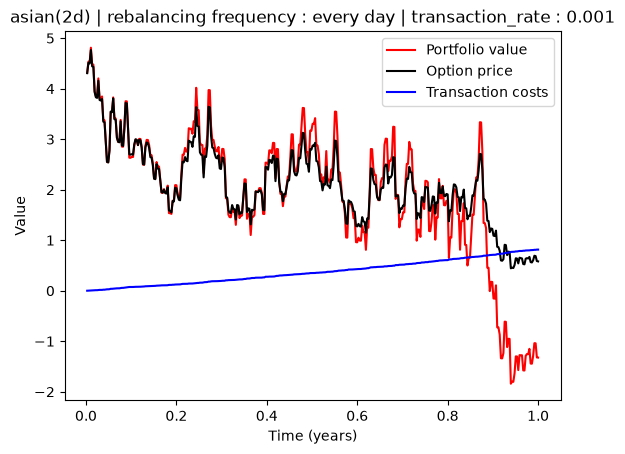
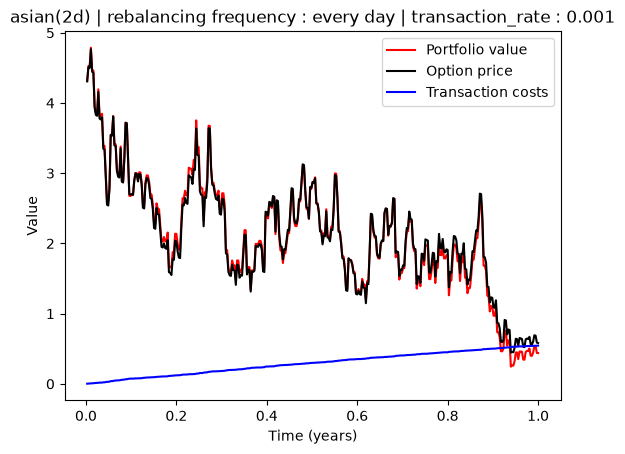
update

diff --git a/README.md b/README.md
@@ -47,6 +47,4 @@ Three option types were backtested with daily rebalancing: a 5-asset basket opti
 
 ![perf](figures/perf.png)
 
-For the basket and Asian options, the replicating portfolio tracks the option's price closely — the residual gap is consistent with the expected discretization error of a finitely-rebalanced hedge.
-
-For the performance option, the two curves diverge markedly. This is expected, not a bug: a performance/cliquet payoff (a sum of positive period-over-period returns of a diversified basket) is, by construction, almost insensitive to the current spot level — its deltas, as computed by the pricer, are of the order of `1e-6`, essentially zero. A delta hedge is therefore structurally the wrong instrument for this payoff: the replicating portfolio ends up holding close to no shares (nearly pure cash), while the option's fair value keeps evolving as each period's return is realized. The two curves are not expected to match.
+Across all three option types, the replicating portfolio tracks the option's price relatively well — consistent with the expected discretization error of a finitely-rebalanced hedge. The performance option shows a slightly larger residual gap than the basket and Asian options.
